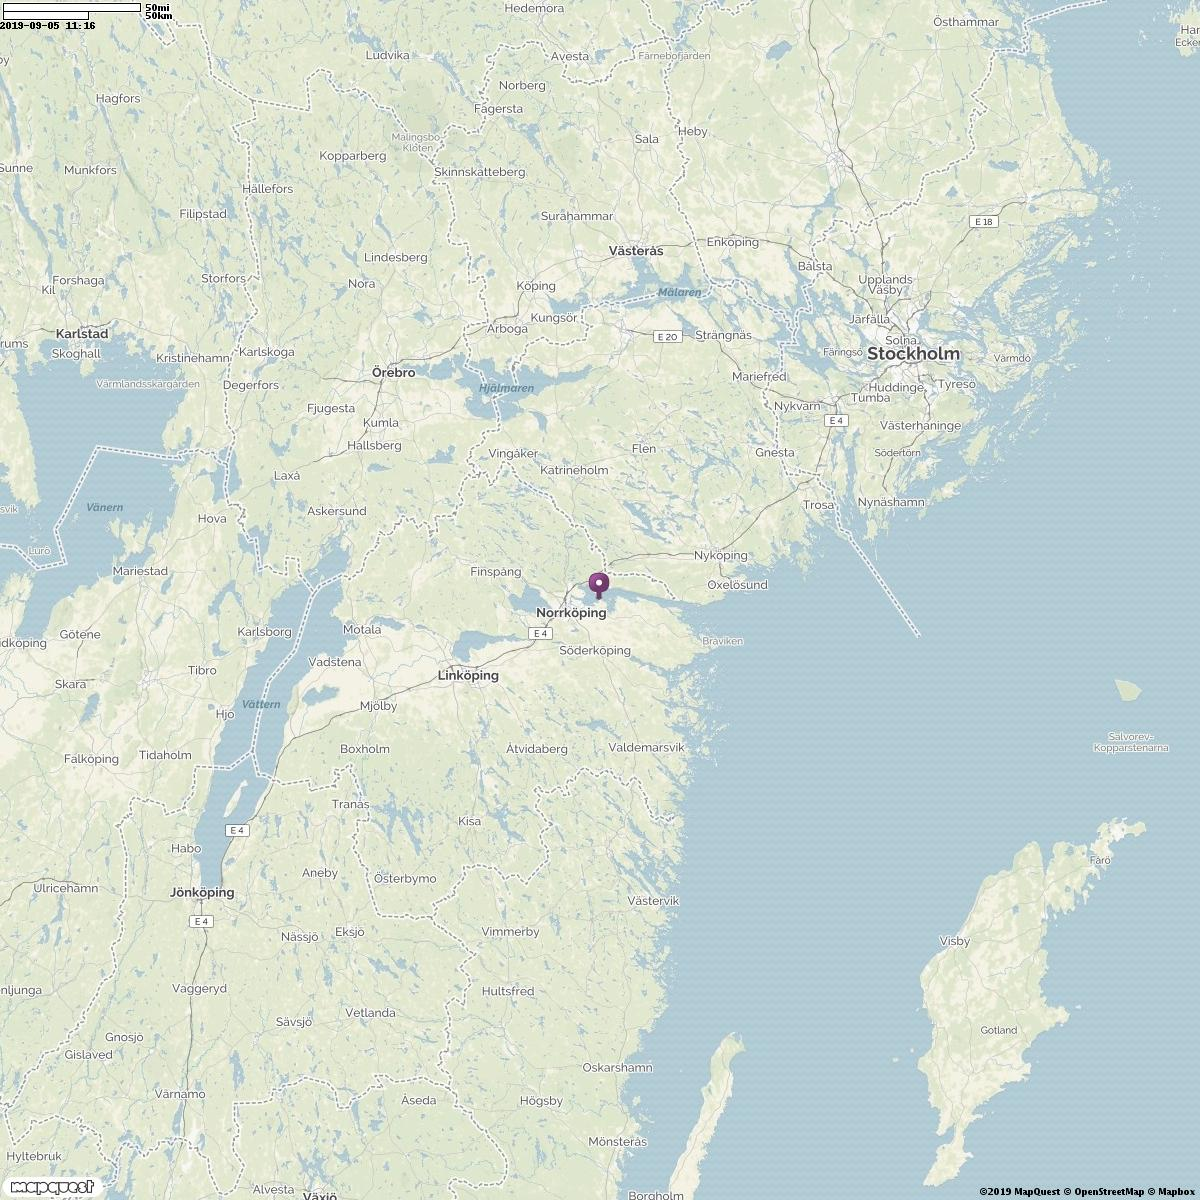
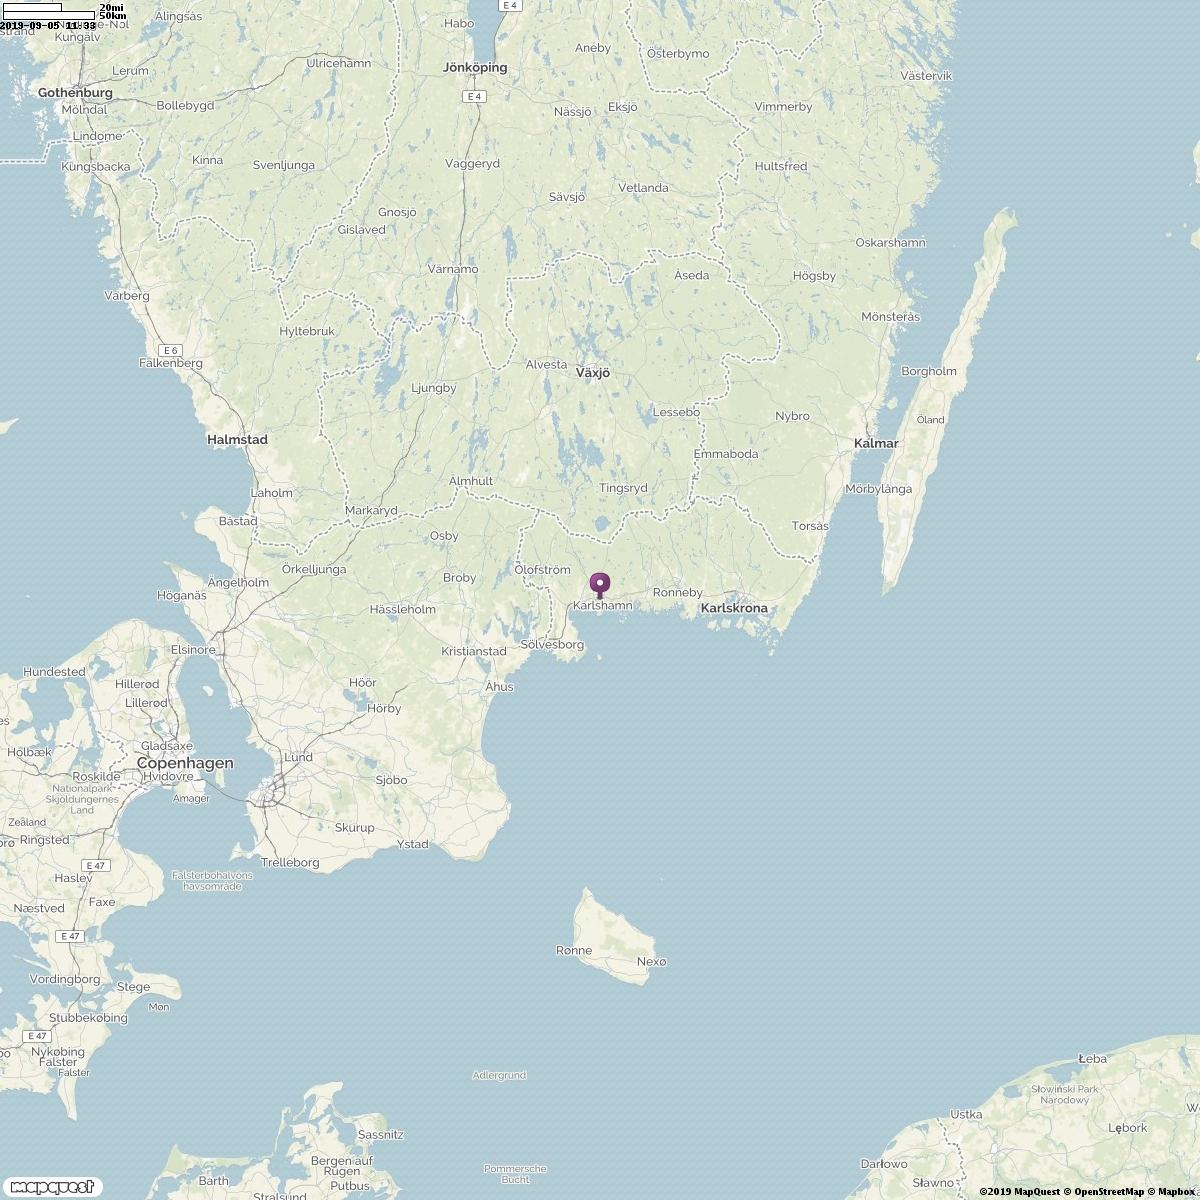
2019-09-05 11:33

diff --git a/monitor.py b/monitor.py
@@ -141,20 +141,29 @@ coordinatesTimeList = []
 coordinatesLatList = []
 coordinatesLongList = []
 i = 0
+_lat = 0
+_long = 0
 for e in coordinatesContent:
-	if i < 1:
-		coordinatesTimeList.append(e.split(',')[0])
-		coordinatesLatList.append(float(e.split(',')[1]))
-		coordinatesLongList.append(float(e.split(',')[2]))
-		i = i + 1
-coordinatesTimeList = list(reversed(coordinatesTimeList))
-coordinatesLatList = list(reversed(coordinatesLatList))
-coordinatesLongList = list(reversed(coordinatesLongList))
+	if i < maxDataItems and e != '':
+		print(e)
+		newLat = float(e.split(',')[1])
+		newLong = float(e.split(',')[2])
+		if newLat != _lat or newLong != _long:
+			coordinatesTimeList.append(e.split(',')[0])
+			coordinatesLatList.append(newLat)
+			coordinatesLongList.append(newLong)
+			_lat = newLat
+			_long = newLong
+			i = i + 1
+coordinatesTimeList = list(coordinatesTimeList)
+coordinatesLatList = list(coordinatesLatList)
+coordinatesLongList = list(coordinatesLongList)
 
-lat = coordinatesLatList[0]
-long = coordinatesLongList[0]
-print(f'{lat},{long}')
-mapUrl = f'https://www.mapquestapi.com/staticmap/v4/getmap?size=1200,1200&type=map&zoom=8&center={lat},{long}&mcenter={lat},{long}&imagetype=JPEG&key=27OtkDxArEqki7qITqKQbtPgfAtHaWOe'
+#_lat = coordinatesLatList[0]
+#_long = coordinatesLongList[0]
+print(f'{_lat},{_long}')
+print(coordinatesLatList)
+mapUrl = f'https://www.mapquestapi.com/staticmap/v4/getmap?size=1200,1200&type=map&zoom=8&center={_lat},{_long}&mcenter={_lat},{_long}&imagetype=JPEG&key=27OtkDxArEqki7qITqKQbtPgfAtHaWOe'
 print(mapUrl)
 with open(mapFileName, 'wb') as f:
 	f.write(requests.get(mapUrl).content)
